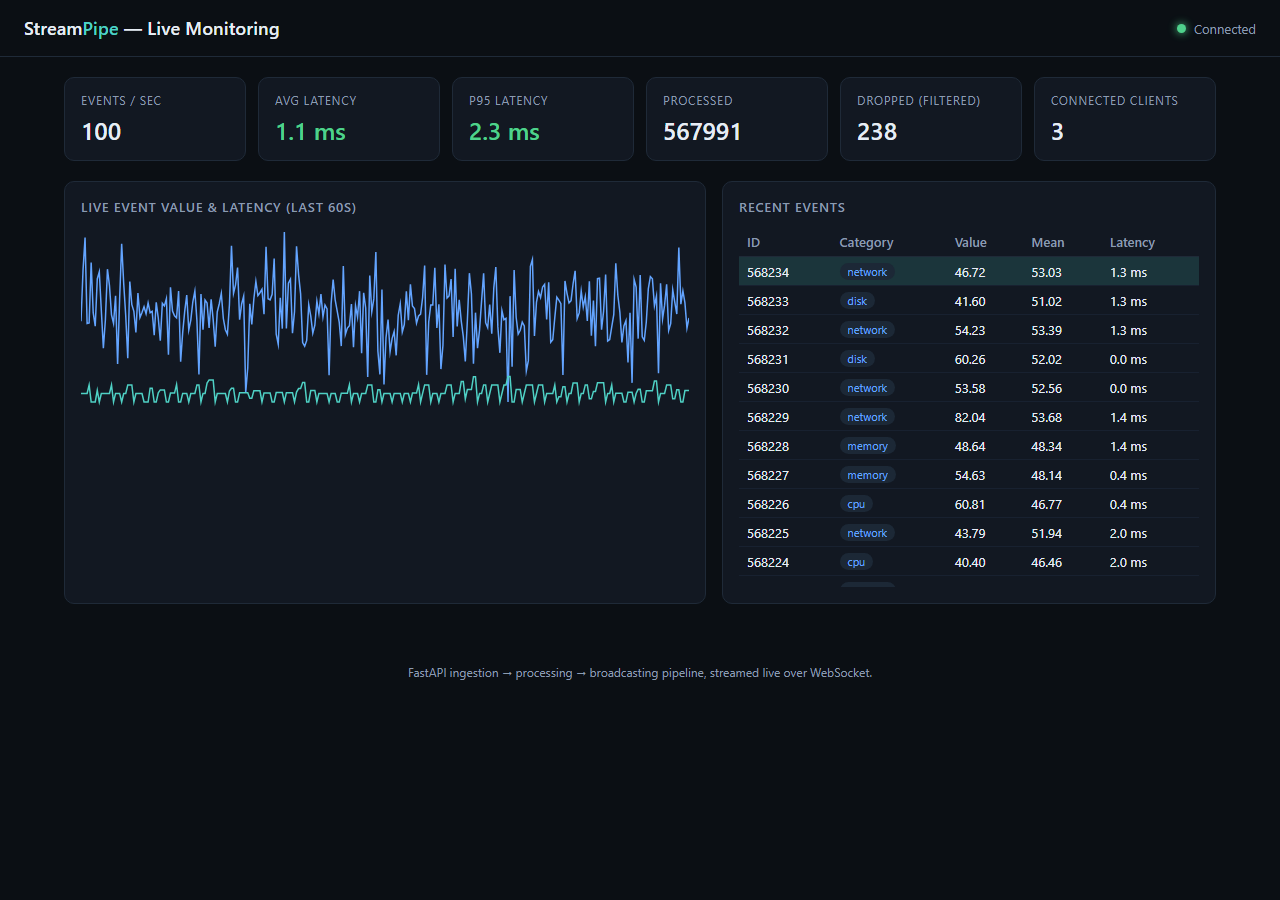
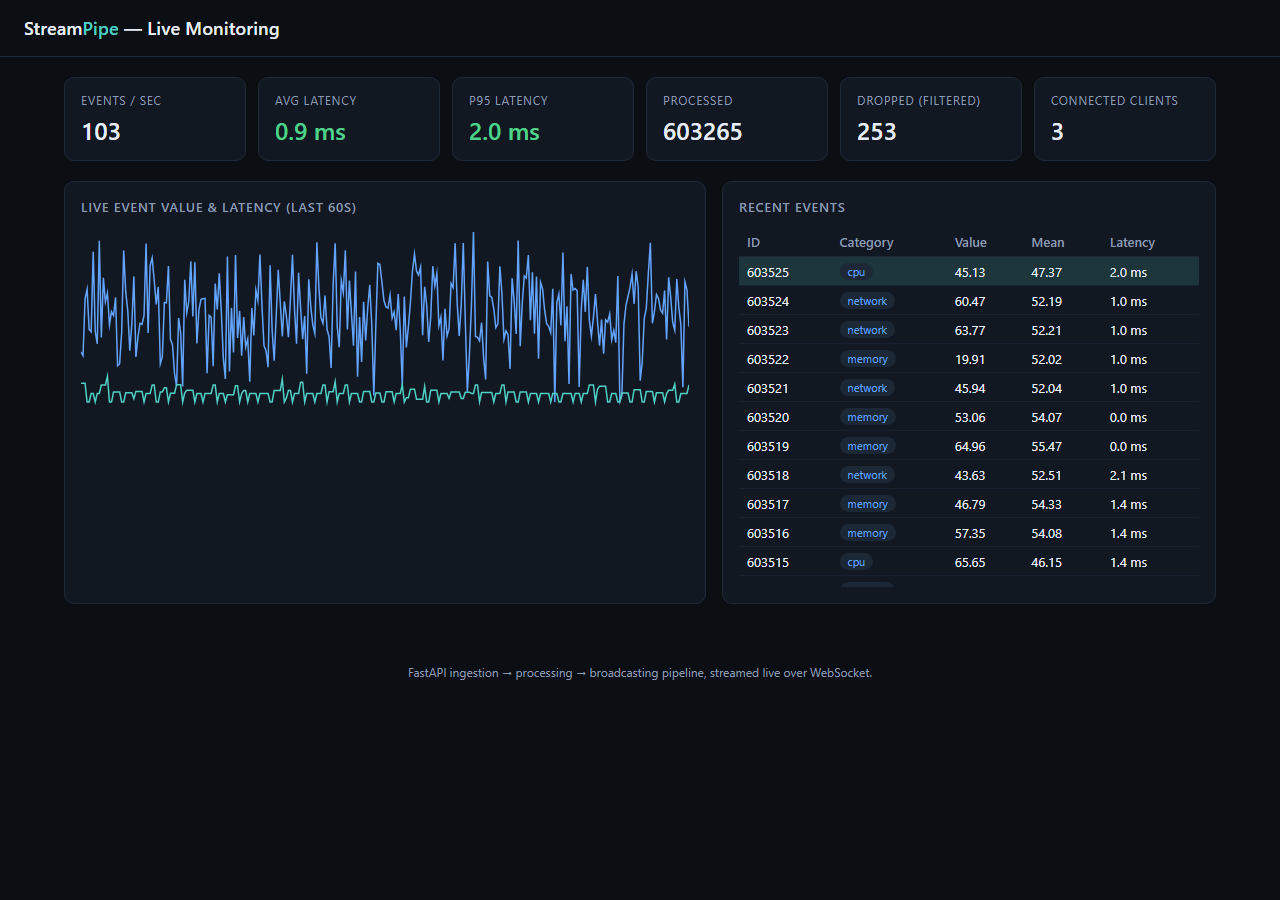
Remove connection status indicator from dashboard header, update screenshot

diff --git a/client/app.js b/client/app.js
@@ -10,8 +10,6 @@
 const MAX_TABLE_ROWS = 40;
 const MAX_HISTORY = 300; // ~60s at ~5 samples/sec redraw cadence
 
-const statusDot = document.getElementById("statusDot");
-const statusText = document.getElementById("statusText");
 const tableBody = document.getElementById("eventTableBody");
 const statRate = document.getElementById("statRate");
 const statLatency = document.getElementById("statLatency");
@@ -32,14 +30,7 @@ function connect() {
   const proto = location.protocol === "https:" ? "wss:" : "ws:";
   const ws = new WebSocket(`${proto}//${location.host}/ws`);
 
-  ws.onopen = () => {
-    statusDot.classList.add("connected");
-    statusText.textContent = "Connected";
-  };
-
   ws.onclose = () => {
-    statusDot.classList.remove("connected");
-    statusText.textContent = "Disconnected – retrying…";
     setTimeout(connect, 1500);
   };
 

diff --git a/client/style.css b/client/style.css
@@ -38,28 +38,6 @@ header h1 {
 
 header h1 span { color: var(--accent); }
 
-.status {
-  display: flex;
-  align-items: center;
-  gap: 8px;
-  font-size: 13px;
-  color: var(--muted);
-}
-
-.dot {
-  width: 9px;
-  height: 9px;
-  border-radius: 50%;
-  background: var(--bad);
-  box-shadow: 0 0 8px var(--bad);
-  transition: background 0.2s, box-shadow 0.2s;
-}
-
-.dot.connected {
-  background: var(--good);
-  box-shadow: 0 0 8px var(--good);
-}
-
 main {
   padding: 20px 24px 40px;
   max-width: 1200px;

diff --git a/client/index.html b/client/index.html
@@ -9,10 +9,6 @@
 <body>
   <header>
     <h1>Stream<span>Pipe</span> &mdash; Live Monitoring</h1>
-    <div class="status">
-      <span class="dot" id="statusDot"></span>
-      <span id="statusText">Connecting&hellip;</span>
-    </div>
   </header>
 
   <main>
